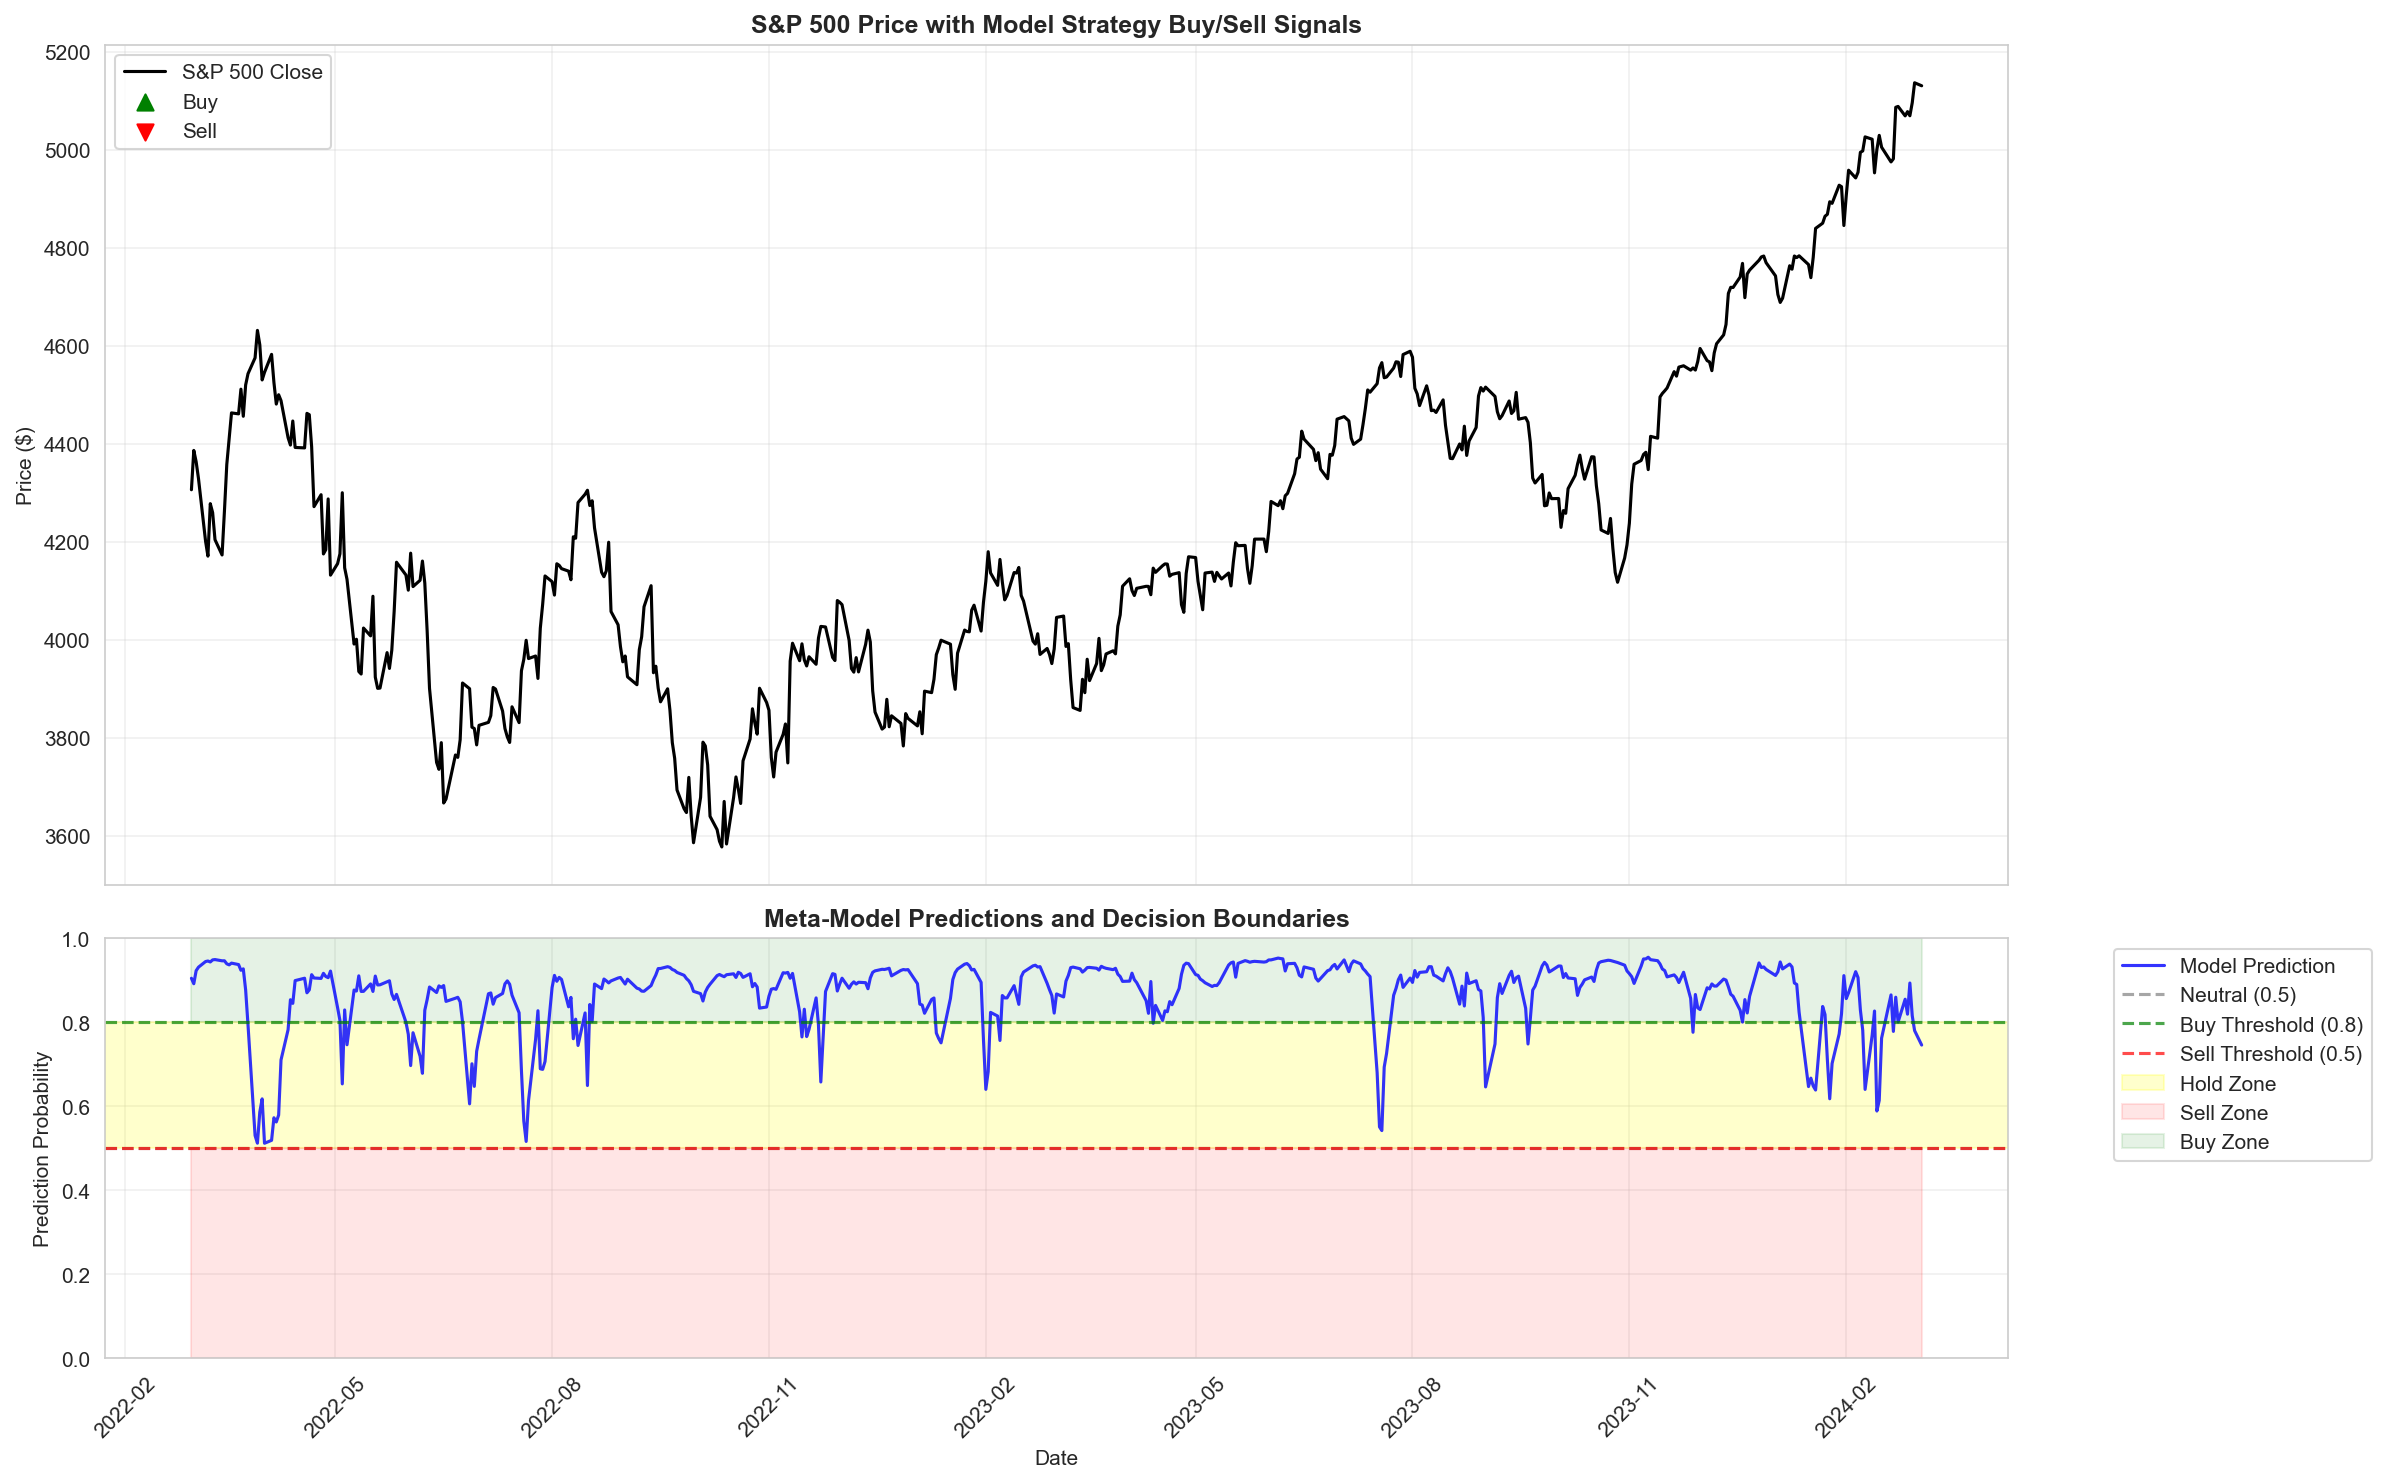
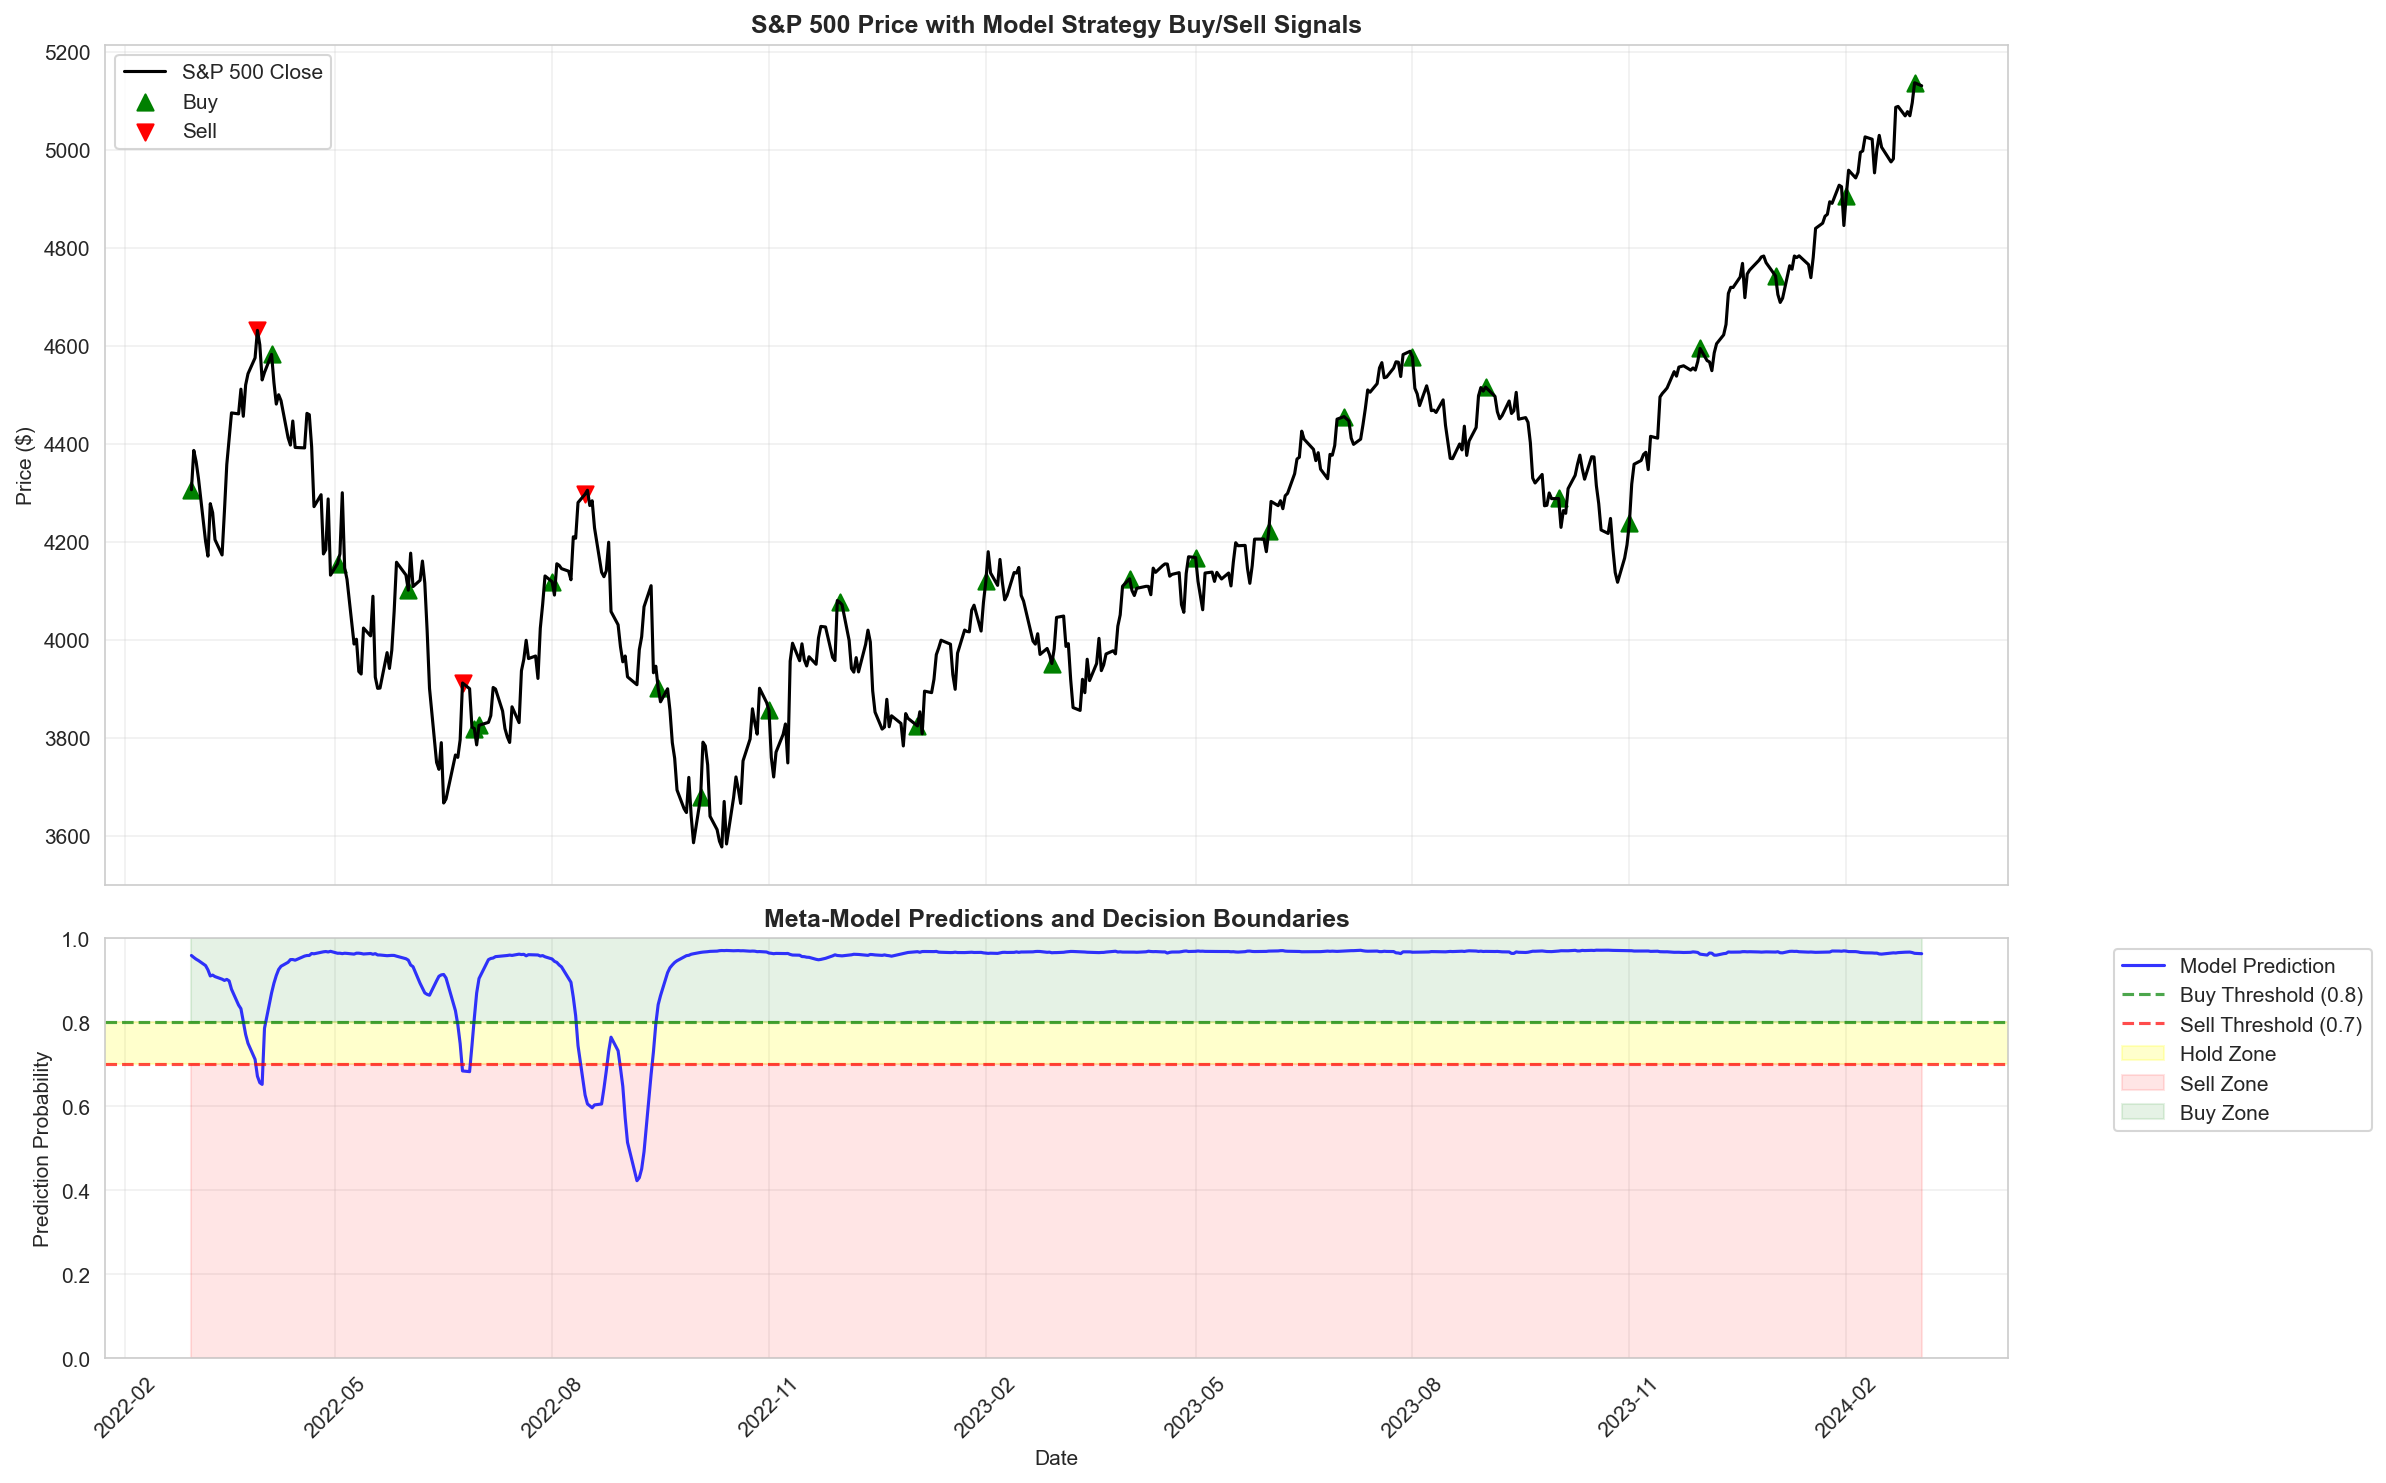
Update decision boundaries for allocation logic in comparison.py
- Adjusted allocation thresholds: changed buy probability to > 0.8, hold probability to 0.7-0.8, and sell probability to < 0.7.
- Updated sell decision logic to only allow sells when probability is below 0.7.
- Modified plotting logic to reflect new decision thresholds for better visualization of trading strategies.
- Updated related plots to ensure consistency with the new allocation logic.

Changed region(s): [[0.031, 0.6204, 0.9925, 0.7755]]

diff --git a/comparison.py b/comparison.py
@@ -144,16 +144,16 @@ def simulate_dca(prices: pd.DataFrame, cfg: SimulationConfig) -> pd.DataFrame:
 
 
 def allocation_from_probability(prob: float, prev_weight: float, band: float) -> float:
-    # New decision boundaries:
+    # Decision boundaries:
     # - Buy when prob > 0.8 (allocate 100%)
-    # - Hold when 0.5 <= prob <= 0.8 (keep previous allocation)
-    # - Sell when prob < 0.5 (allocate 0%)
-    if prob > 0.9:
-        return 1.0  # Full allocation when probability is high
-    elif prob >= 0.5:
-        return prev_weight  # Hold current allocation
+    # - Hold when 0.7 <= prob <= 0.8 (keep previous allocation)
+    # - Sell when prob < 0.7 (allocate 0%)
+    if prob > 0.8:
+        return 1.0
+    elif prob < 0.7:
+        return 0.0
     else:
-        return 0.0  # No allocation when probability is low
+        return prev_weight
 
 
 def simulate_meta_strategy(prices: pd.DataFrame, preds: pd.DataFrame, cfg: SimulationConfig) -> pd.DataFrame:
@@ -216,17 +216,11 @@ def simulate_meta_strategy(prices: pd.DataFrame, preds: pd.DataFrame, cfg: Simul
         delta_value = desired_equity_value - current_equity_value
         delta_shares = delta_value / price if price > 0 else 0.0
 
-        # Decision thresholds - new logic for sell decisions
-        # Only allow sells when probability is below 0.5
-        if delta_shares < 0:
-            # If not in sell zone (prob >= 0.5), suppress rebalancing sells
-            if not (prob < 0.5):
-                delta_shares = 0.0
-                weight = prev_weight
-            # Never sell on a loss even if in sell zone
-            elif shares > 0 and price < avg_purchase_price:
-                delta_shares = 0.0
-                weight = prev_weight
+        # Only allow sells when probability is below 0.7
+        if delta_shares < 0 and not (prob < 0.7):
+            # Suppress sells outside sell zone
+            delta_shares = 0.0
+            weight = prev_weight
 
         if abs(delta_shares) > cfg.trade_threshold_shares:
             # Update average purchase price for buys
@@ -301,9 +295,9 @@ def plot_price_with_trades(prices: pd.DataFrame, model_df: pd.DataFrame, out_pat
     trades = model_df.loc[model_df['trade_shares'] != 0]
     buys = trades.loc[trades['trade_shares'] > 0]
     sells = trades.loc[trades['trade_shares'] < 0]
-    # Optional: filter sells to only those where prob is below 0.5
+    # Filter sells to only those where prob is below 0.7
     if 'prob_meta' in model_df.columns:
-        sells = sells.loc[model_df.loc[sells.index, 'prob_meta'] < 0.5]
+        sells = sells.loc[model_df.loc[sells.index, 'prob_meta'] < 0.7]
 
     ax1.scatter(buys.index, prices.loc[buys.index, 'Close'], marker='^', color='green', s=60, label='Buy')
     ax1.scatter(sells.index, prices.loc[sells.index, 'Close'], marker='v', color='red', s=60, label='Sell')
@@ -318,15 +312,14 @@ def plot_price_with_trades(prices: pd.DataFrame, model_df: pd.DataFrame, out_pat
         # Plot model predictions
         ax2.plot(model_df.index, model_df['prob_meta'], label='Model Prediction', color='blue', linewidth=1.5, alpha=0.8)
         
-        # Add decision boundaries for new logic
+        # Decision thresholds for plotting
         buy_threshold = 0.8
-        sell_threshold = 0.5
-        
-        ax2.axhline(y=0.5, color='gray', linestyle='--', alpha=0.7, label='Neutral (0.5)')
+        sell_threshold = 0.7
+
         ax2.axhline(y=buy_threshold, color='green', linestyle='--', alpha=0.7, label=f'Buy Threshold ({buy_threshold:.1f})')
         ax2.axhline(y=sell_threshold, color='red', linestyle='--', alpha=0.7, label=f'Sell Threshold ({sell_threshold:.1f})')
-        
-        # Shade the hold zone (0.5 to 0.8)
+
+        # Shade the hold zone (0.7 to 0.8)
         ax2.axhspan(sell_threshold, buy_threshold, alpha=0.2, color='yellow', label='Hold Zone')
         
         # Mark regions
